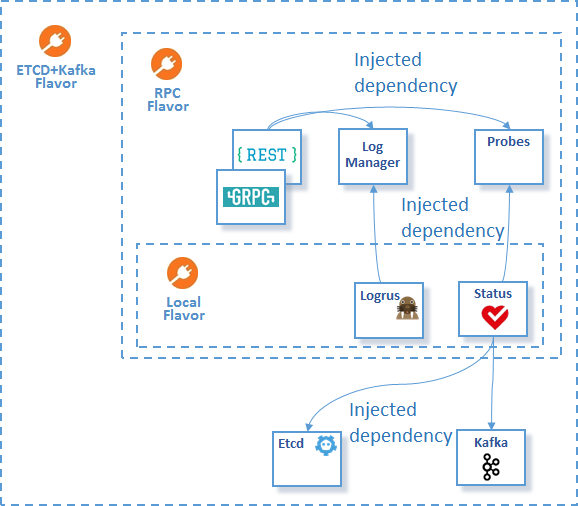
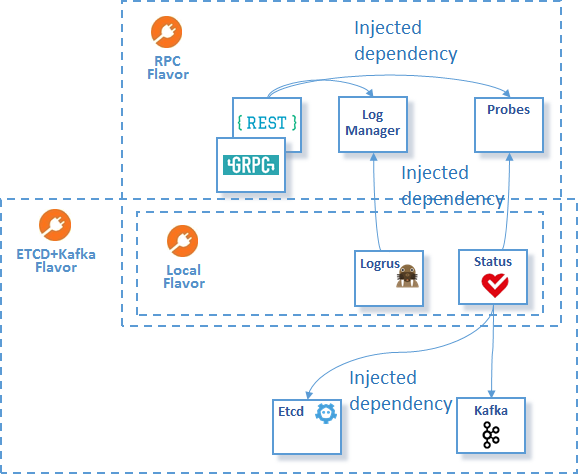
ODPM-511 editorial changes (flavor, dependencies, lifecycle)

diff --git a/flavors/README.md b/flavors/README.md
@@ -1,20 +1,29 @@
 # Flavors
 
-A flavor is a reusable collection of plugins with initialized 
-[dependencies](../docs/guidelines/PLUGIN_DEPENDENCIES.md). CN-Infra provides
-the following [flavors](../docs/guidelines/PLUGIN_FLAVORS.md):
+A [flavors](../docs/guidelines/PLUGIN_FLAVORS.md) is a reusable collection of plugins 
+with initialized [dependencies](../docs/guidelines/PLUGIN_DEPENDENCIES.md). 
+
+Most importatnt CN-Infra flavors:
 * [local flavor](local) - a minimal set of plugins. It just initializes logging & statuchek.
   It is useful for embedding agent plugins to different projects that use their own infrasturcure.
 * [RPC flavor](rpc) - a collection of plugins that exposes RPCs. It also register management API for:
   * status check (RPCs probed from systems such as K8s)
   * logging (for changing log level at runtime remotely)
-* [etcd + Kafka flavor](etcdkafka) - adds etcd & Kafka client plugin instances to 
-  the [RPC flavor](rpc)
+* [etcd + Kafka flavor](etcdkafka) - is combination of Kafka & etcd flavor (reused in many examples)
+* [all connectors flavor](allcon) - is combination of all following flavors with local and RPC flavor.
+
+There are following individual connector flavors:
+* [Cassandra flavor](cassandra) - adds Cassadnra client plugin related instances to the [local flavor](local)
+* [etcd flavor](etcd) - adds etcd client plugin related instances to the [local flavor](local) 
+  the [local flavor](local)
+* [Redis flavor](Redis) - adds Redis client plugin related instances to the [local flavor](local)
+* [Kafka flavor](kafka) - adds Kafka client plugin related instances to the [local flavor](local)
+
   
 The following diagram shows:
 * plugins that are part of the flavor
 * initialized (injected) [statuscheck](../health/statuscheck) dependency 
   inside [etcd client plugin](../db/keyval/etcdv3) and [Kafka client plugin](../messaging/kafka)
-* [etcd + Kafka flavor](etcdkafka) extends [RPC flavor](rpc) 
+* [etcd + Kafka flavor](etcdkafka) extends [local flavor](local) 
 
 ![flavors](../docs/imgs/flavors.png)

diff --git a/docs/guidelines/PLUGIN_LIFECYCLE.md b/docs/guidelines/PLUGIN_LIFECYCLE.md
@@ -40,15 +40,18 @@ import (
 )
 
 type PluginXY struct {
-    Watcher     datasync.Watcher //Injected
-    Logger      logging.Logger
-    ParentCtx   context.Context
-    
+    Dep
     resource    io.Closer
     dataChange  chan datasync.ChangeEvent
     dataResync  chan datasync.ResyncEvent
     data        map[string]interface{}
     cancel      context.CancelFunc
+}
+
+type Dep struct {
+    Watcher     datasync.KeyValProtoWatcher // Inject
+    Logger      logging.Logger              // Inject
+    ParentCtx   context.Context             // inject optionally
 }
 
 func (plugin * PluginXY) Init() (err error) {

diff --git a/docs/guidelines/PLUGIN_FLAVORS.md b/docs/guidelines/PLUGIN_FLAVORS.md
@@ -28,7 +28,7 @@ import (
 )
 
 type CompositeFlavor struct {
-	rpc.FlavorRPC     // Reused Flavor
+	*rpc.FlavorRPC     // Reused Flavor
 	PluginXY PluginXY // Added custom plugin to flavor
 }
 
@@ -45,6 +45,11 @@ func (flavor *CompositeFlavor) Inject() bool {
 
 func (flavor *CompositeFlavor) Plugins() []*core.NamedPlugin {
 	flavor.Inject()
+	
+	if flavor.FlavorRPC == nil {
+	    flavor.FlavorRPC = &rpc.FlavorRPC{}
+	}
+	
 	return core.ListPluginsInFlavor(flavor)
 }
 
